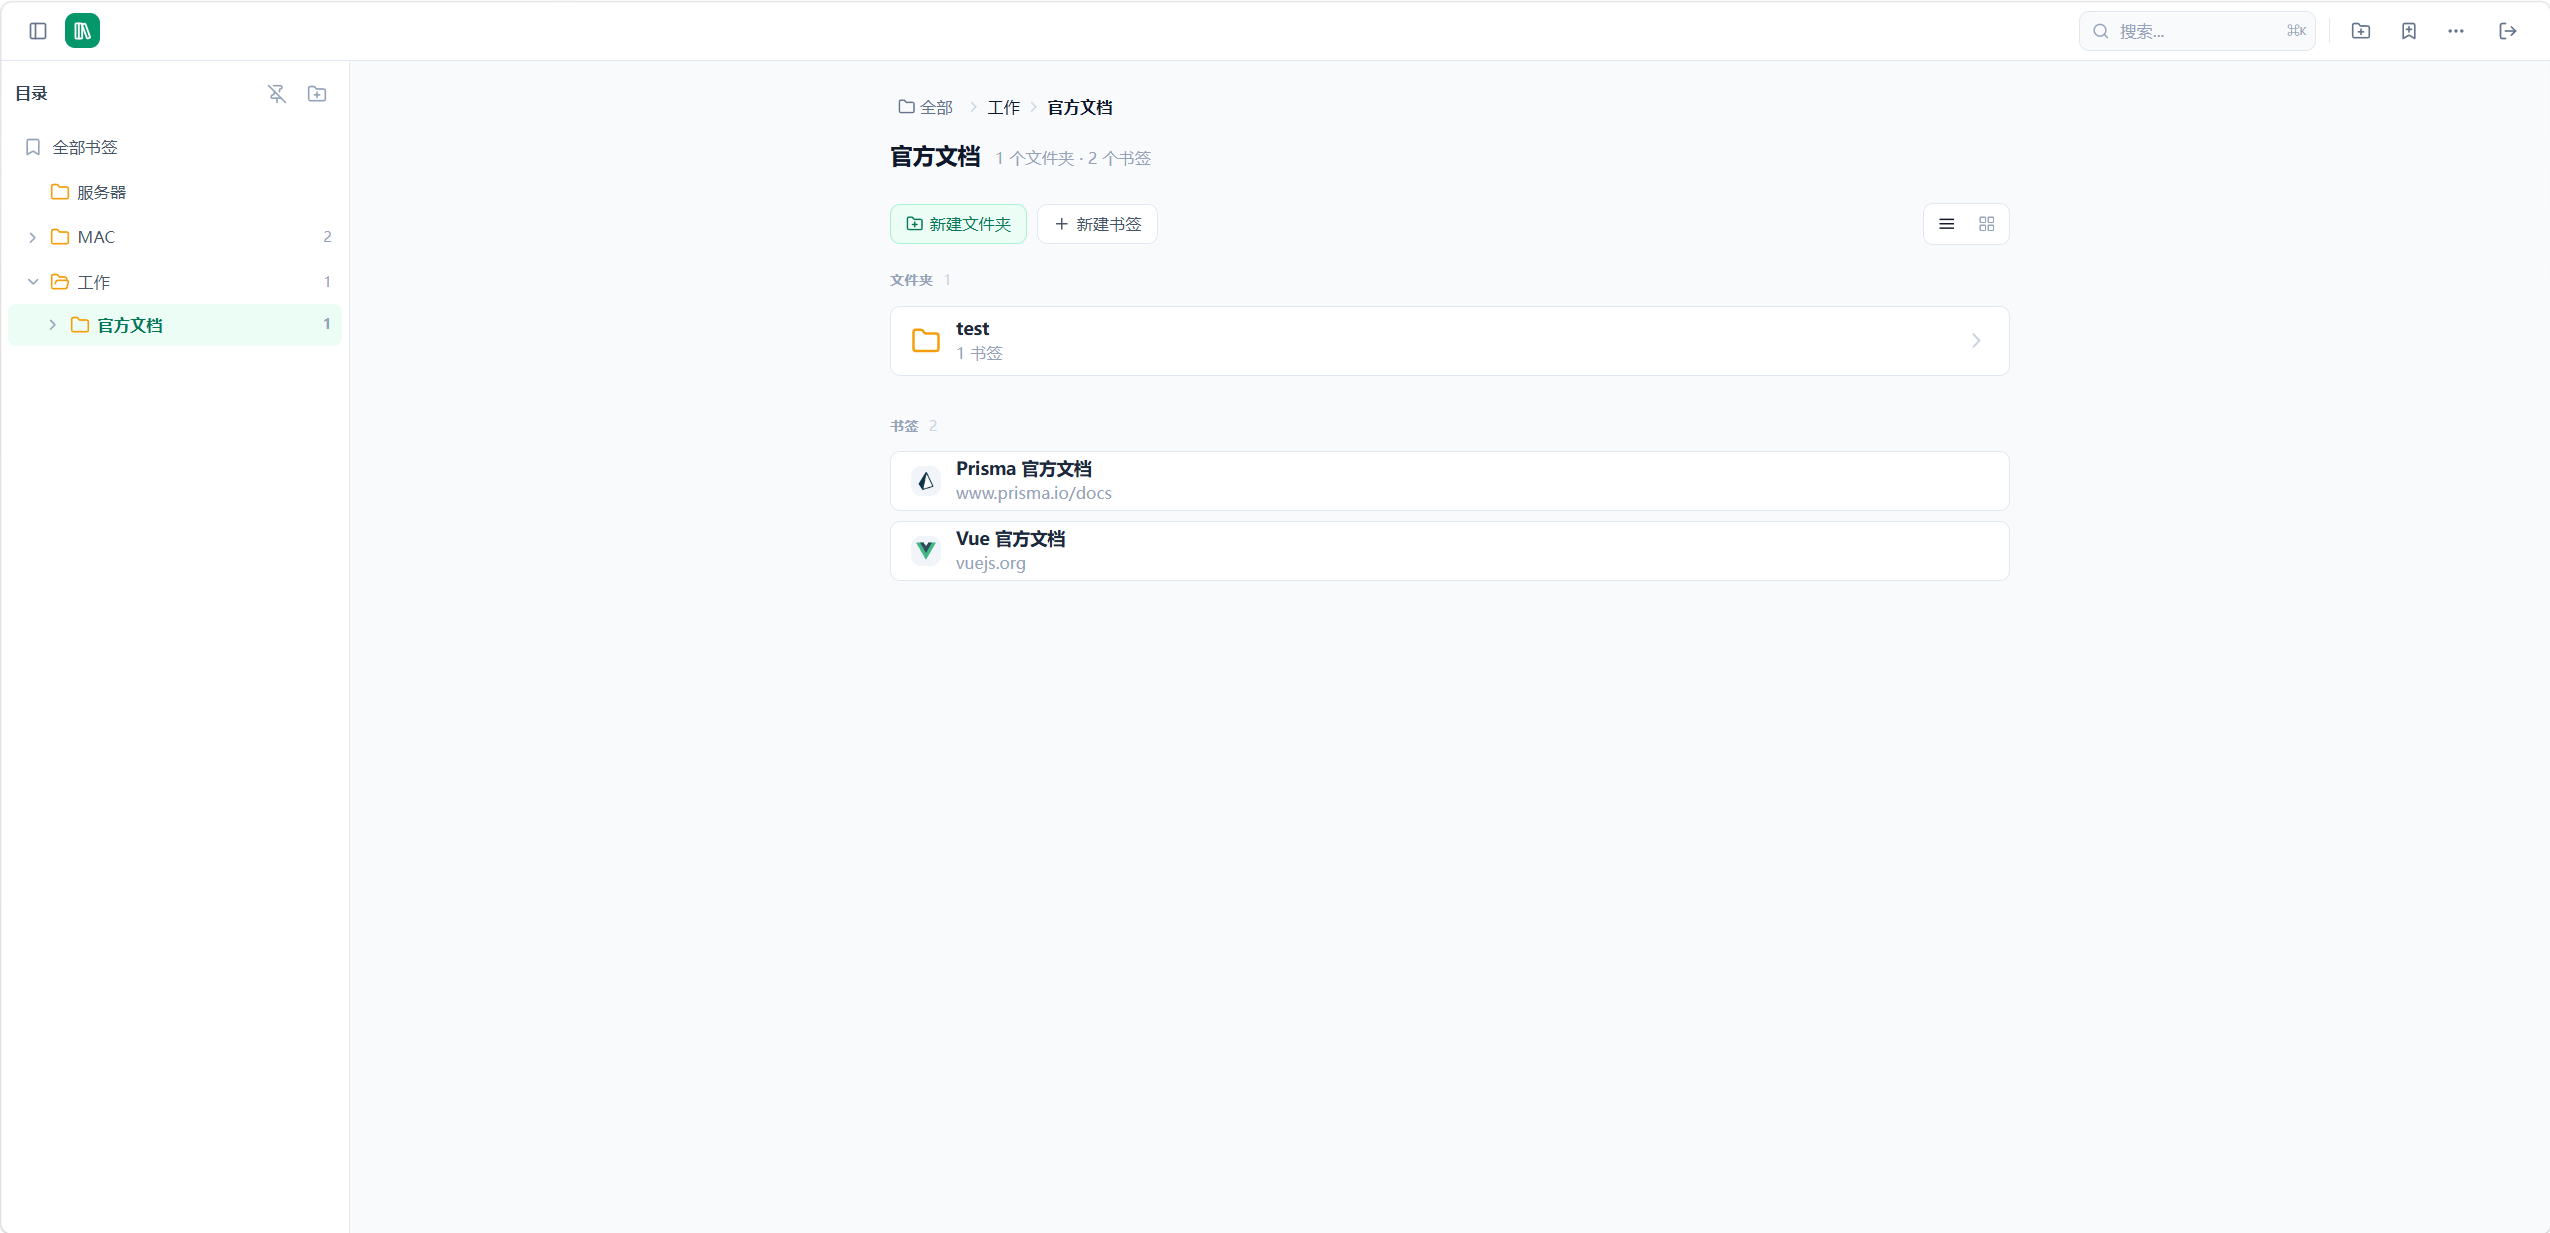
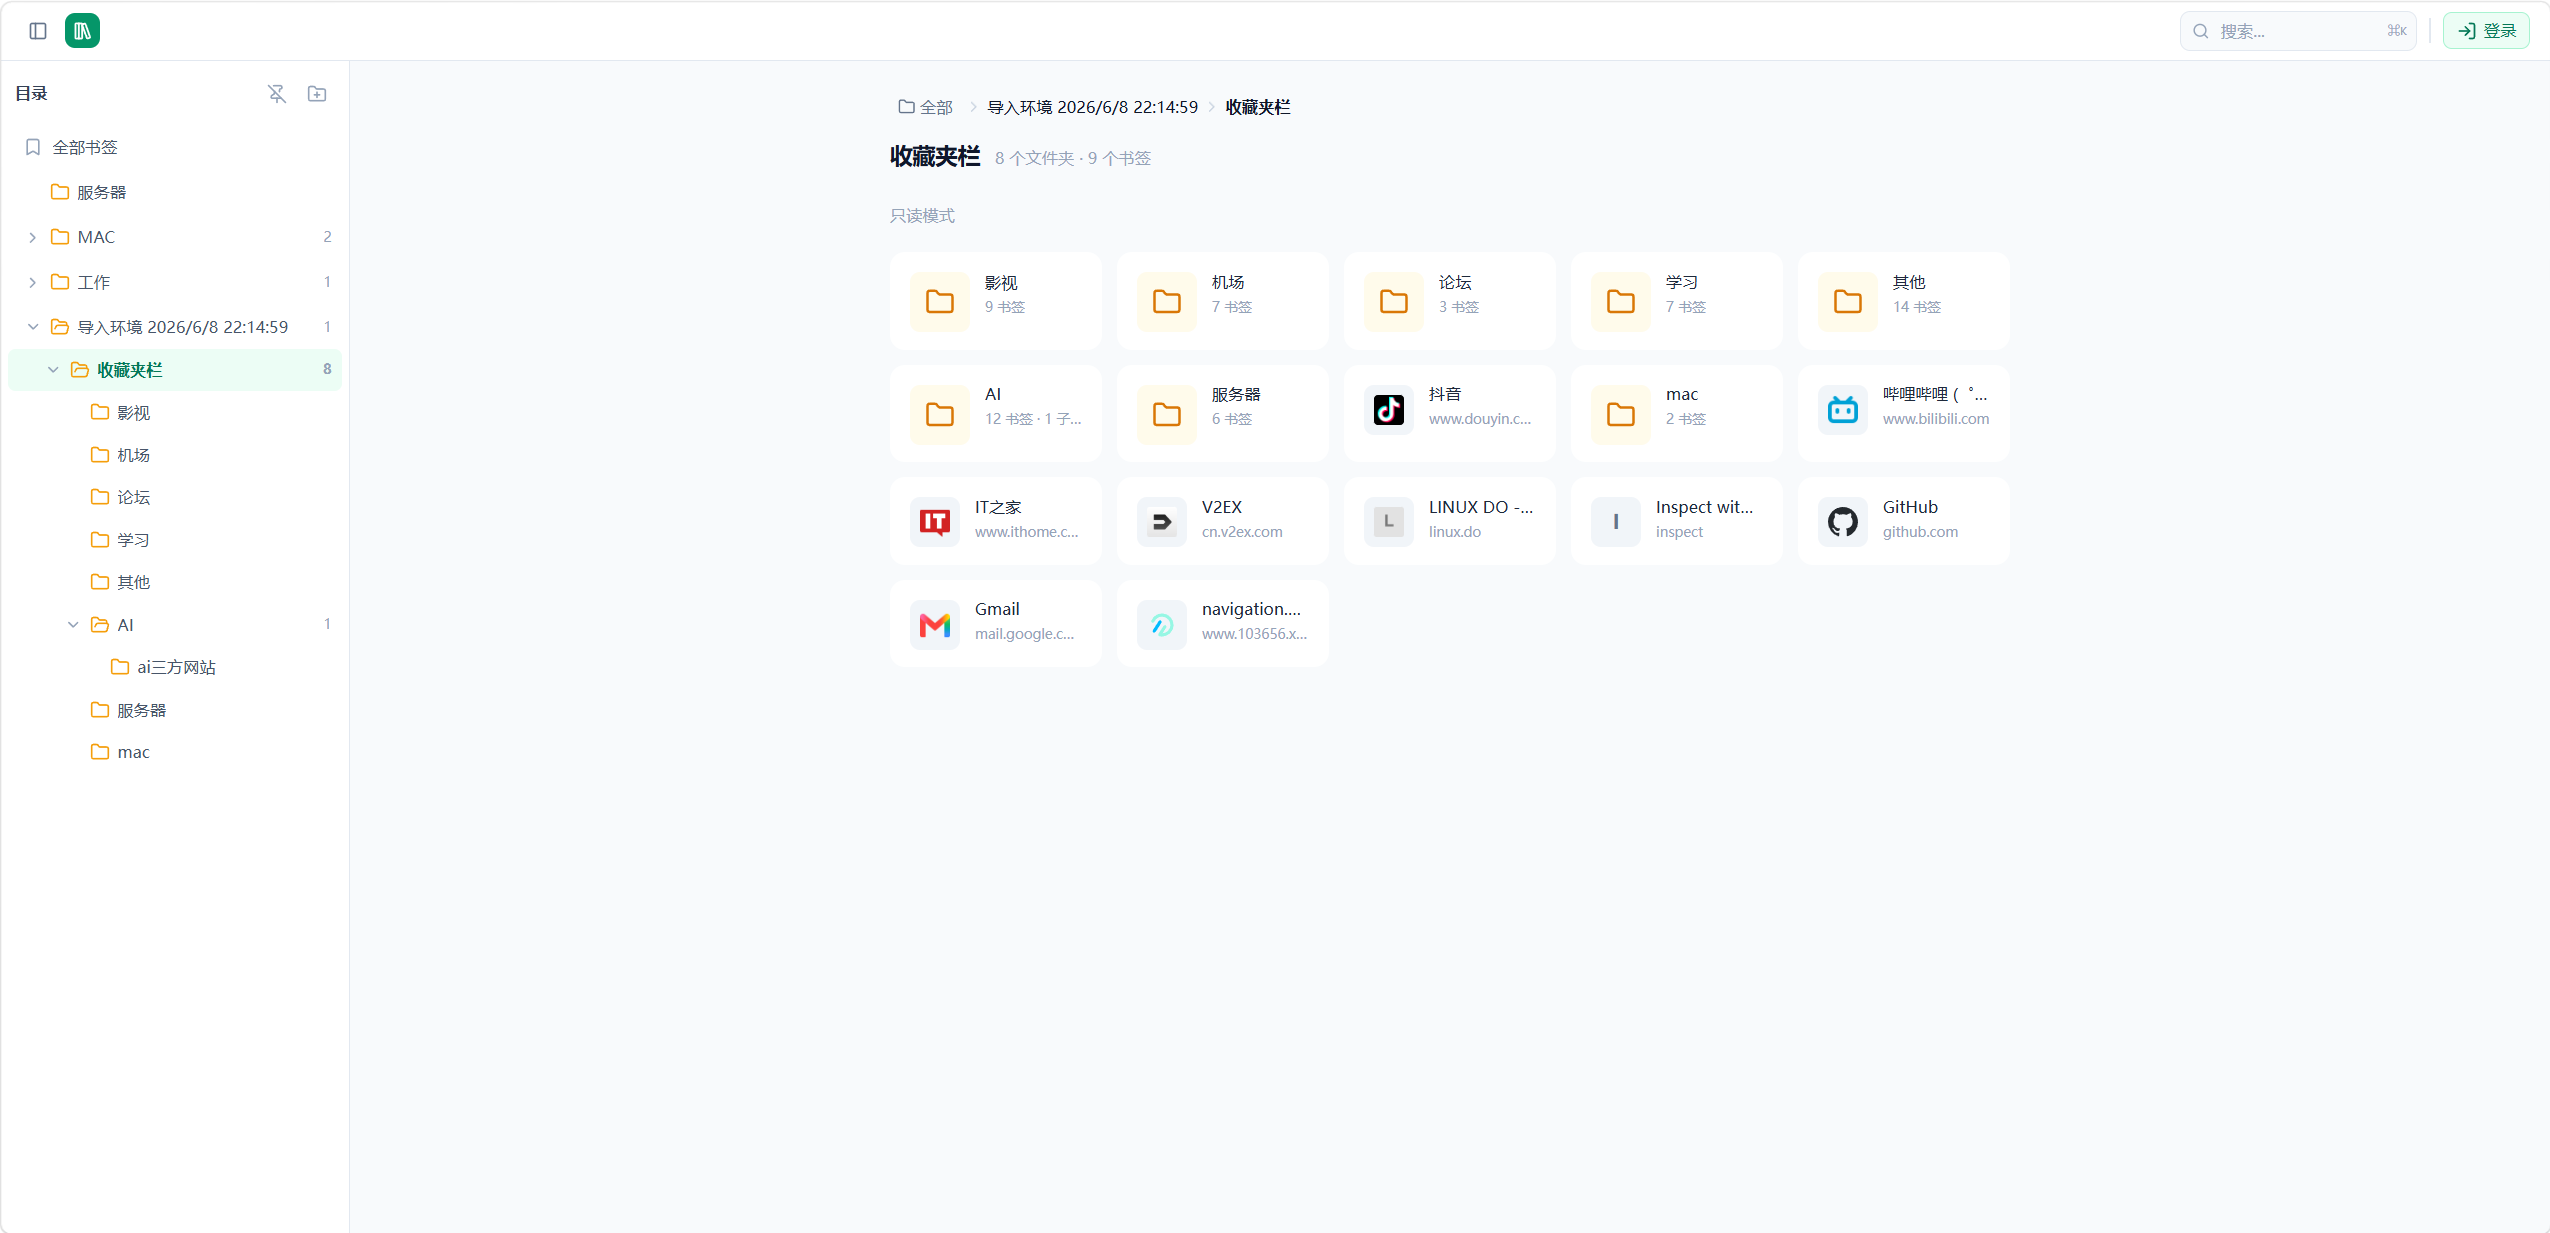
feat: 内容区样式简化 — 合并文件夹书签、卡片横排、去视图切换
- ContentArea: 文件夹和书签合并为单个卡片网格，按 sort_order 排序
- ContentArea: 移除列表/网格视图切换按钮，统一为卡片模式
- GridCard: 重新设计为图标在左侧的长方形卡片，去边框
- SectionList: label 为空时不显示标签行
- README: Docker run 命令补充 DATABASE_URL 环境变量

diff --git a/client/src/components/content/ContentArea.vue b/client/src/components/content/ContentArea.vue
@@ -43,7 +43,6 @@
       <!-- Unified actions bar -->
       <div class="mb-5 flex items-start gap-2">
         <div class="flex flex-wrap items-center gap-2 flex-1 min-w-0">
-        <!-- Edit mode toggle (leftmost) -->
           <button
             v-if="isLoggedIn"
             class="inline-flex items-center gap-[5px] h-8 px-3 rounded-lg border text-[13px] font-medium cursor-pointer transition-colors"
@@ -55,7 +54,6 @@
             <span>{{ selection.editMode.value ? '完成' : '编辑' }}</span>
           </button>
 
-          <!-- Create buttons (disabled in edit mode) -->
           <template v-if="isLoggedIn">
             <button
               class="inline-flex items-center gap-[5px] h-8 px-3 rounded-lg border text-[13px] transition-colors"
@@ -76,7 +74,6 @@
           </template>
           <span v-if="!isLoggedIn" class="text-[13px] text-slate-400">只读模式</span>
 
-          <!-- Paste button (always when clipboard has items) -->
           <button
             v-if="selection.clipboard.value && isLoggedIn"
             class="inline-flex items-center gap-[5px] h-8 px-3 rounded-lg border border-amber-200 bg-amber-50 text-[13px] text-amber-700 font-medium cursor-pointer transition-colors hover:bg-amber-100 hover:border-amber-300"
@@ -86,7 +83,6 @@
             <span>粘贴 {{ selection.clipboard.value.ids.length }} 项</span>
           </button>
 
-          <!-- Edit mode action buttons -->
           <template v-if="selection.editMode.value && isLoggedIn">
             <button
               v-for="btn in editActions"
@@ -100,19 +96,6 @@
               <span>{{ btn.label }}</span>
             </button>
           </template>
-
-        </div>
-
-        <!-- Right side: selection count + view toggle (fixed, not affected by wrap) -->
-        <div class="flex items-center gap-2 flex-shrink-0">
-          <div class="flex rounded-lg border border-slate-200 bg-white p-0.5">
-          <button class="inline-flex items-center justify-center h-7 w-8 rounded-md border-none bg-transparent text-slate-400 cursor-pointer transition-colors hover:text-slate-600" :class="viewMode === 'list' ? 'bg-slate-100 text-slate-900' : ''" title="列表视图" @click="$emit('update:viewMode', 'list')">
-            <AlignJustify class="h-3.5 w-3.5" :stroke-width="2" />
-          </button>
-          <button class="inline-flex items-center justify-center h-7 w-8 rounded-md border-none bg-transparent text-slate-400 cursor-pointer transition-colors hover:text-slate-600" :class="viewMode === 'grid' ? 'bg-slate-100 text-slate-900' : ''" title="网格视图" @click="$emit('update:viewMode', 'grid')">
-            <LayoutGrid class="h-3.5 w-3.5" :stroke-width="2" />
-          </button>
-        </div>
         </div>
       </div>
 
@@ -134,7 +117,7 @@
       </div>
 
       <template v-else>
-        <!-- Select-all row (edit mode only, right-aligned with checkboxes) -->
+        <!-- Select-all row (edit mode only) -->
         <div v-if="selection.editMode.value && allSelectable.length > 0" class="flex items-center justify-end gap-2 mb-2 pr-1">
           <span v-if="!selection.isEmpty.value" class="text-[13px] font-semibold text-emerald-700">已选 {{ selection.count.value }} 项</span>
           <span class="text-[13px] text-slate-500 cursor-pointer select-none" @click="toggleSelectAll">全选</span>
@@ -148,33 +131,17 @@
         </div>
 
         <SectionList
-          v-if="orderedFolders.length > 0"
-          :items="orderedFolders"
-          label="文件夹"
-          :subtitle-fn="folderStats"
-          :view-mode="viewMode"
-          grid-min-width="200px"
-          mb
+          v-if="orderedChildren.length > 0"
+          :items="orderedChildren"
+          label=""
+          :subtitle-fn="childSubtitle"
+          view-mode="grid"
+          grid-min-width="160px"
           :draggable="isLoggedIn"
           :edit-mode="selection.editMode.value"
           :selected-ids="selection.selectedIds.value"
-          @click-item="(f, e) => onItemClick(f, e)"
-          @reorder="onFolderDragEnd"
-          @contextmenu="(p) => $emit('contextmenu', p)"
-          @toggle-select="onToggleSelect"
-        />
-        <SectionList
-          v-if="orderedBookmarks.length > 0"
-          :items="orderedBookmarks"
-          label="书签"
-          :subtitle-fn="(b) => cleanUrl(b.url || '')"
-          :view-mode="viewMode"
-          grid-min-width="180px"
-          :draggable="isLoggedIn"
-          :edit-mode="selection.editMode.value"
-          :selected-ids="selection.selectedIds.value"
-          @click-item="(b, e) => onItemClick(b, e)"
-          @reorder="onBookmarkDragEnd"
+          @click-item="(item, e) => onItemClick(item, e)"
+          @reorder="(ids) => $emit('reorder', selectedFolderId, ids)"
           @contextmenu="(p) => $emit('contextmenu', p)"
           @toggle-select="onToggleSelect"
         />
@@ -185,7 +152,7 @@
 
 <script setup lang="ts">
 import { computed, onMounted, onUnmounted } from 'vue';
-import { AlignJustify, Check, ClipboardPaste, FolderPlus, Inbox, LayoutGrid, LibraryBig, Lock, Pencil, Plus, Scissors, Trash2, X } from 'lucide-vue-next';
+import { Check, ClipboardPaste, FolderPlus, Inbox, LibraryBig, Lock, Pencil, Plus, Scissors, Trash2, X } from 'lucide-vue-next';
 import Breadcrumb from '../layout/Breadcrumb.vue';
 import SectionList from './SectionList.vue';
 import { useSelection } from '../../composables/useSelection';
@@ -224,12 +191,16 @@ function findNodeById(id: string, nodes: BookmarkNode[] = props.tree): BookmarkN
 const children = computed(() => !props.selectedFolderId ? props.tree : (findNodeById(props.selectedFolderId)?.children ?? []));
 const folders = computed(() => children.value.filter(n => n.type === 'folder'));
 const bookmarks = computed(() => children.value.filter(n => n.type === 'bookmark'));
-const orderedFolders = computed(() => [...folders.value].sort((a, b) => a.sort_order - b.sort_order));
-const orderedBookmarks = computed(() => [...bookmarks.value].sort((a, b) => a.sort_order - b.sort_order));
+const orderedChildren = computed(() => [...children.value].sort((a, b) => a.sort_order - b.sort_order));
 const folderCount = computed(() => folders.value.length);
 const bookmarkCount = computed(() => bookmarks.value.length);
 
-const allSelectable = computed(() => [...orderedFolders.value, ...orderedBookmarks.value]);
+function childSubtitle(node: BookmarkNode): string {
+  if (node.type === 'folder') return folderStats(node);
+  return cleanUrl(node.url || '');
+}
+
+const allSelectable = computed(() => [...orderedChildren.value]);
 
 const allSelected = computed(() =>
   allSelectable.value.length > 0 && allSelectable.value.every(n => selection.selectedIds.value.has(n.id))
@@ -250,7 +221,6 @@ const editActions = computed(() => [
   { label: '删除', icon: Trash2, disabled: selection.isEmpty.value, danger: true, action: () => emit('batch-delete') },
 ]);
 
-// Permission toggle: check if all selected are private → show "设为公开", else "设为私有"
 const togglePermissionTarget = computed(() => {
   const ids = [...selection.selectedIds.value];
   const allPrivate = ids.length > 0 && ids.every(id => {
@@ -277,17 +247,14 @@ const breadcrumbPath = computed(() => {
 
 function onItemClick(item: BookmarkNode, event?: MouseEvent) {
   if (selection.editMode.value) {
-    // In edit mode: always toggle selection
     onToggleSelect(item.id, event);
   } else if (selection.isEmpty.value && !(event?.ctrlKey || event?.metaKey || event?.shiftKey)) {
-    // Normal mode, no selection: navigate/open
     if (item.type === 'folder') {
       emit('select-folder', item.id);
     } else {
       emit('open-bookmark', item);
     }
   } else {
-    // Has existing selection or modifier key: toggle selection
     onToggleSelect(item.id, event);
   }
 }
@@ -304,15 +271,6 @@ function onToggleSelect(id: string, event?: MouseEvent) {
 function handleCut() {
   selection.cut();
   selection.exitEditMode();
-}
-
-function onFolderDragEnd(orderedIds: string[]) {
-  if (!props.isLoggedIn) return;
-  emit('reorder', props.selectedFolderId, [...orderedIds, ...orderedBookmarks.value.map(n => n.id)]);
-}
-function onBookmarkDragEnd(orderedIds: string[]) {
-  if (!props.isLoggedIn) return;
-  emit('reorder', props.selectedFolderId, [...orderedFolders.value.map(n => n.id), ...orderedIds]);
 }
 
 // --- Keyboard shortcuts ---

diff --git a/client/src/components/content/GridCard.vue b/client/src/components/content/GridCard.vue
@@ -1,11 +1,10 @@
 <template>
   <div
-    class="relative rounded-xl border transition-all group cursor-pointer"
-    :class="selected ? 'border-emerald-400 bg-emerald-50 shadow-md ring-1 ring-emerald-200' : 'border-slate-200 bg-white hover:border-slate-300 hover:shadow-md'"
+    class="relative flex items-start gap-3 px-4 py-3.5 rounded-xl cursor-pointer transition-colors group"
+    :class="selected ? 'bg-emerald-50' : 'bg-white hover:bg-slate-50'"
     @click="onClick"
     @contextmenu.prevent="onContextMenu"
   >
-    <!-- Selection checkbox (edit mode: always shown) -->
     <span
       v-if="editMode || selected"
       class="absolute top-2 right-2 z-10 inline-flex items-center justify-center w-5 h-5 rounded-full border-2 transition-colors"
@@ -14,12 +13,10 @@
       <Check class="h-3 w-3" :stroke-width="3" />
     </span>
 
-    <div class="flex flex-col items-center gap-2 px-3 py-4 text-center">
-      <BookmarkNodeIcon :node="node" size="lg" />
-      <div class="w-full min-w-0 overflow-hidden">
-        <span class="block truncate text-[13px] font-medium text-slate-800">{{ node.title }}</span>
-        <span class="mt-0.5 block truncate text-[11px] text-slate-400">{{ subtitle }}</span>
-      </div>
+    <BookmarkNodeIcon :node="node" size="lg" class="mt-0.5 flex-shrink-0" />
+    <div class="min-w-0 flex-1">
+      <span class="block truncate text-[13px] font-medium text-slate-800">{{ node.title }}</span>
+      <span class="mt-0.5 block truncate text-[11px] text-slate-400">{{ subtitle }}</span>
     </div>
   </div>
 </template>

diff --git a/client/src/components/content/SectionList.vue b/client/src/components/content/SectionList.vue
@@ -1,6 +1,6 @@
 <template>
   <section :class="mb ? 'mb-8' : ''">
-    <div class="mb-3 flex items-center gap-2">
+    <div v-if="label" class="mb-3 flex items-center gap-2">
       <span class="text-[11px] font-semibold uppercase tracking-wider text-slate-400">{{ label }}</span>
       <span class="text-[11px] text-slate-300">{{ items.length }}</span>
     </div>

diff --git a/README.md b/README.md
@@ -12,7 +12,6 @@
 > 操作入口：登录后点击侧边栏 → 导入 / 导出
 
 ![主界面](images/image1.png)
-![搜索与导入导出](images/image2.png)
 
 ## 快速开始
 
@@ -47,7 +46,7 @@ npm run dev
 镜像由 GitHub Actions 自动构建，部署时直接拉取，无需现场编译：
 
 ```bash
-docker run -d -p 3000:3000 -v booktree_data:/app/data ghcr.io/shaobo0123/booktree:latest
+docker run -d -p 3000:3000 -v booktree_data:/app/data -e DATABASE_URL=file:./data/dev.db ghcr.io/shaobo0123/booktree:latest
 ```
 
 > 服务器需安装 Docker。部署后访问 `http://<服务器IP>:3000`，默认密码 `admin`。  